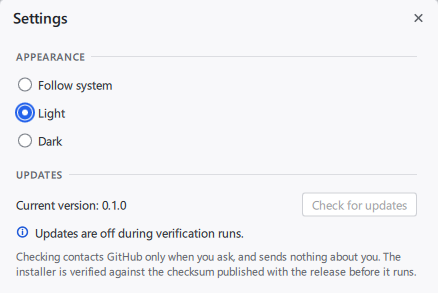
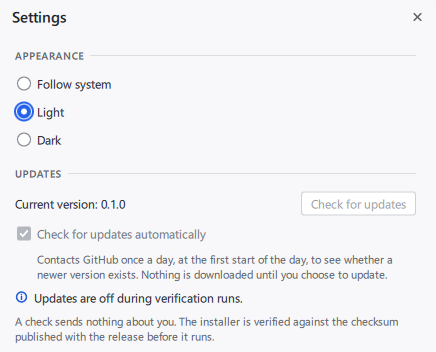
Record the merged updater lockdown and what it has not verified

diff --git a/docs/development-status.md b/docs/development-status.md
@@ -35,33 +35,71 @@ one. Headless checks use the hidden verification switches of `pmm-app`
 | Accessibility and high-DPI | `ui/`, [`accessibility.md`](accessibility.md) | done except the gaps listed there | UI Automation inspection, contrast check, scale factors 1.5 and 2 |
 | Windows package (ZIP) | `cmake/Packaging.cmake`, `packaging/`, [`packaging.md`](packaging.md) | verified from an extracted copy without Qt or Visual Studio | [packaging](evidence/packaging-2026-10-29.md) |
 | Windows installer (Inno Setup, per-user) | `packaging/windows/`, [`packaging.md`](packaging.md#windows-installer) | verified with silent runs in a scratch folder, including failed upgrades; wizard not clicked through. Added 2026-11-06: no downgrade over a newer installed version, one Start Menu shortcut instead of a folder, no desktop shortcut brought back by an update run, the previous version started again after a failed update run, the uninstall message about the data folders; compiled without warnings, **not run** (the smoke test runs them on GitHub) | [installer](evidence/installer-2026-10-30.md) |
-| Update check, daily check and update button | `src/services/app_update`, `src/app/core/update_client`, `src/app/gui/update_controller`, [`updates.md`](updates.md) | done, tested against a local stub; **no real update has happened**: no published release exists. 2026-11-06 (the updater lockdown): the request by repository id, owner and repository taken from the checked reply, redirects only for downloads and only to `github.com` and `*.githubusercontent.com`, the daily check with its banner and setting, no in-app install in `--profile` and `--no-steam` sessions, retries of the final save | [installer](evidence/installer-2026-10-30.md#after-merging-the-update-check) |
-| Update contract, frozen since 0.1.0 | [`packaging/update-contract.txt`](../packaging/update-contract.txt), `scripts/check-update-contract.sh`, `scripts/test-update-contract.sh`, [`updates.md`](updates.md#compatibility-contract-frozen-since-010) | done 2026-11-06: CI's "Format check" checks the sources and tests the check (80 cases); the Release workflow checks the version, the published releases, the repository id in `pmm-app.exe` and the assets before the draft. Passes locally on a copy with the updater's id change applied; **not run on GitHub yet** | |
+| Update check, daily check and update button | `src/services/app_update`, `src/app/core/update_client`, `src/app/gui/update_controller`, [`updates.md`](updates.md) | done, tested against a local stub; **no real update has happened**: no published release exists. 2026-11-06 (the updater lockdown): the request by repository id, owner and repository taken from the checked reply, redirects only for downloads and only to `github.com` and `*.githubusercontent.com`, the daily check with its banner and setting, no in-app install in `--profile` and `--no-steam` sessions, retries of the final save, and "Open release page" built from the repository the reply named (the compiled slug's list of releases only while no reply has named one). Merged and verified together on `agent/updater-lockdown` | [installer](evidence/installer-2026-10-30.md#after-merging-the-update-check) |
+| Update contract, frozen since 0.1.0 | [`packaging/update-contract.txt`](../packaging/update-contract.txt), `scripts/check-update-contract.sh`, `scripts/test-update-contract.sh`, [`updates.md`](updates.md#compatibility-contract-frozen-since-010) | done 2026-11-06: CI's "Format check" checks the sources and tests the check (80 cases); the Release workflow checks the version, the published releases, the repository id in `pmm-app.exe` and the assets before the draft. Passes on the merged tree, and a deliberate drift fails it; **not run on GitHub yet** | |
 | `Release` workflow | `.github/workflows/release.yml`, [`releasing.md`](releasing.md) | dry run passed on GitHub on 2026-10-30 (validation, full CI, package, installer smoke test); **the publish step has not run**, only locally against a stub `gh`. The contract checks and the extended smoke test of 2026-11-06 have not run on GitHub | [installer](evidence/installer-2026-10-30.md#release-workflow-what-could-be-checked) |
 | README, ADRs, support matrix, validation procedure, troubleshooting, changelog | repository root, `docs/` | up to date with this handoff | |
 | In-game probe mods | `tools/probe-mods/probe_mods.py` | done; not yet used against a running game | |
 
-## Test status (2026-11-06, update contract and installer)
+## Test status (2026-11-06, updater lockdown merged)
 
-Local only; nothing of this has run on GitHub yet.
+The updater's three branches (`agent/updater-core`, `agent/update-daily`,
+`agent/update-contract`) merged without conflicts on `agent/updater-lockdown`, in
+that order: `agent/update-contract` alone fails its own contract check, because the
+repository id comes with `agent/updater-core`, so the three land together. A review of
+the merge found that "Open release page" still used the compiled slug instead of the
+repository the reply named (reproduced, fixed, regression tests in
+`update_tests.cpp` and `qml_tests.cpp`). Local runs on the merged tree; nothing of this
+has run on GitHub yet.
 
-- `installer.iss` compiles with Inno Setup 6.7.3 without warnings (against a
-  stand-in stage); no setup was run on the development machine.
-- `scripts/check-update-contract.sh`: on this branch alone it reports exactly the
-  three values the updater's change brings (`PMM_GITHUB_REPOSITORY_ID` in CMake, the
-  request by `/repositories/` and the id in the code that builds it). On a copy with
-  that change applied: 54 source checks OK, and `scripts/test-update-contract.sh`
-  passes 80 cases (each mutation of a contract value is found for its own reason, a comment is not;
-  bad versions, published releases through a stub `gh`, and bad release assets are
-  refused).
-- `smoke-test-installer.ps1`: PowerShell's parser finds no errors; the mutex helper
-  and the process lookup were exercised on their own with another mutex name. The
-  script itself was not run (it starts setups and the application).
+- `debug` preset, fresh configure and clean build: **0 warnings**, **500/500 tests
+  pass**, by label (some tests carry two): core 50, sharing 54, persistence 71,
+  platform 51, providers 61, games 52, services 77, application 89. The new
+  release-page tests fail with the previous `openReleasePage()` and pass with the
+  fix.
+- `core-sanitize` (MSVC, ASan) 411/411 and `core-clang-cl` (LLVM 22, UBSan)
+  411/411, 0 warnings.
+- The 71 update test cases (`[update]`, application and services) passed 10 times
+  each, eight in parallel: 710 runs, no failure.
+- `scripts/check-format.sh`: 238 files OK. `clang-tidy` 22.1.8 on the ten changed
+  `.cpp` files (and the headers they include): no findings. QML lint
+  (`ui/dev/preview.sh --lint`): clean. `actionlint` 1.7.12 on both workflows: no
+  findings.
+- `scripts/check-update-contract.sh`: 54 source checks OK; a changed setup argument
+  in `app_update.cpp` and a changed mutex name in `docs/updates.md` each fail it
+  (reverted). `scripts/test-update-contract.sh`: 80 cases pass.
+- `release` preset without tests, `cpack` and the `installer` target: 0 warnings;
+  the ZIP has 80 files, the same list as a package built the same way from
+  `07f8cbf`, and the installer stage has the same 80 files, including
+  `plugins/tls/qschannelbackend.dll`. Both `pmm-app.exe` files contain the id
+  `1439071956` as the workflow's `grep -a` expects.
+- `installer.iss` compiles with Inno Setup 6.7.3 without warnings from the real
+  stage (also without `/Q`); no setup was run on the development machine.
+- The Release workflow's asset steps on the real packages: `SHA256SUMS.txt` written
+  as the workflow writes it passes `check-update-contract.sh assets`; CRLF, a BOM,
+  the binary marker, uppercase digests, an unlisted file, a name with spaces, a
+  name listed twice, a blank line, a changed file, a missing installer, a leading
+  zero and an `-rc1` suffix are refused.
+- `smoke-test-installer.ps1`: PowerShell's parser finds no errors in the merged
+  script; the mutex helper and the process lookup were exercised on their own with
+  another mutex name (on `agent/update-contract`). The script itself was not run (it
+  starts setups and the application).
 - `prune-qt-deployment.cmake` fails on a fake deployment without
-  `plugins/tls/qschannelbackend.dll` and passes with it.
-- `actionlint` 1.7.12 on both workflows: no findings.
-- One unauthenticated `GET https://api.github.com/repositories/1439071956/releases/latest`:
-  HTTP 404 without a redirect, as expected while nothing is published.
+  `plugins/tls/qschannelbackend.dll` and passes with it (on `agent/update-contract`).
+- Read-only `--screenshot` of Stellaris with a new scratch profile, also with
+  Settings open: the window renders as before, the Updates section shows the
+  daily-check setting, off in a verification run, and the log says
+  `update mode mode=releasePage installed=false dailyCheck=false`. The capture
+  replaced `screenshots/app-settings-updates.png`.
+- One unauthenticated `GET https://api.github.com/repositories/1439071956/releases/latest`
+  (by the review): HTTP 404 without a redirect, as expected while nothing is
+  published. A wrong id would also answer 404, so this does not prove the id; the
+  Release workflow compares it with `GITHUB_REPOSITORY_ID` before anything is built.
+
+**Not verified:** the installer changes of 2026-11-06 and the new smoke-test cases
+run only on the GitHub runner, and have not run there yet; the contract checks of
+the workflows have not run on GitHub; a real update between two published releases
+has never run, and neither has the update button in a real installed copy.
 
 ## Test status (2026-11-06, after the launch fixes)
 
@@ -189,6 +227,18 @@ Packaging ([`packaging.md`](packaging.md)):
 - The package job's check that `pmm-app.exe` contains the repository id needs the
   id compiled in as text (a string define, as `PMM_GITHUB_REPOSITORY_ID` is passed);
   an id formatted from a number at run time would fail it.
+- The repository id 1439071956 has not been confirmed against GitHub from the
+  development machine (a 404 from `releases/latest` does not tell a wrong id from an
+  empty repository). The `Release` workflow's validation compares it with
+  `GITHUB_REPOSITORY_ID` before anything is built, so a wrong id cannot be released.
+- Accepted for 0.1.0 after the lockdown review: `check-update-contract.sh` matches
+  text, so a value that survives only in a comment still passes (for example
+  `/releases/latest` removed from the code, or the relaunch's `Check:` flipped); the
+  unit test that pins `latestReleaseApiUrl()` and the smoke test on the runner catch
+  those. An update run that the downgrade guard refuses does not start the
+  application again; that needs an installed version newer than the running one.
+  "Open release page" falls back to the compiled slug's list of releases while no
+  reply in the session has named the repository (no release yet, or no answer).
 - `ilammy/msvc-dev-cmd` and `jurplel/install-qt-action` are pinned to mutable tags in
   the job that builds the shipped, unsigned installer; pinning them to commit SHAs
   would narrow a supply-chain path to every user who updates.
@@ -224,9 +274,11 @@ Packaging ([`packaging.md`](packaging.md)):
    unsigned, a daily check that is on by default, no rehearsal of an update between
    two releases): the values every copy relies on are frozen in
    [`../packaging/update-contract.txt`](../packaging/update-contract.txt) and checked in
-   CI and in the workflow. The next dry run is the first run of the extended smoke
-   test and of the contract checks on GitHub. Click through the installer wizard
-   once, then the first release, and a second release to try the update for real.
+   CI and in the workflow; the three updater branches land together through
+   `agent/updater-lockdown`, never one by one. The next dry run is the first run of
+   the extended smoke test and of the contract checks on GitHub. Click through the
+   installer wizard once, then the first release, and a second release to try the
+   update for real.
 
 ## Working rules
 

diff --git a/docs/packaging.md b/docs/packaging.md
@@ -357,3 +357,11 @@ wizard's box, and the MIT check failed the build on a changed word, a changed ye
 line break joining two words, a changed `LICENSE` and a lost marker. No setup was run
 for this, so the wizard's license page and header image have not been seen in the
 wizard itself.
+
+**Updater lockdown, 2026-11-06** (same tools, Inno Setup 6.7.3): from the merged
+updater branches, the `release` preset, `cpack` and the `installer` target built
+without warnings. The ZIP holds the same 80 file names as a package built the same
+way from the commit before them, the installer stage the same 80, and both
+`pmm-app.exe` files contain the repository id as text. ISCC compiled the setup
+without warnings; it was not run. The installer changes of that day run first in the
+smoke test on the GitHub runner.
